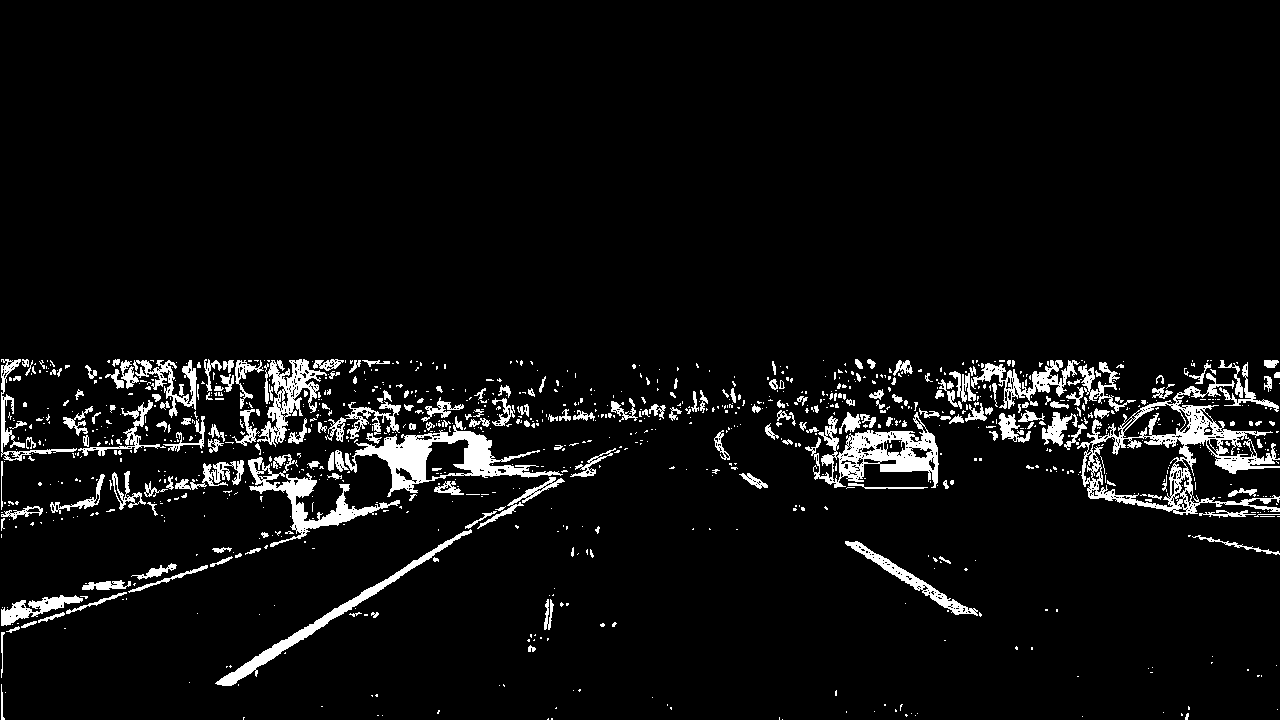
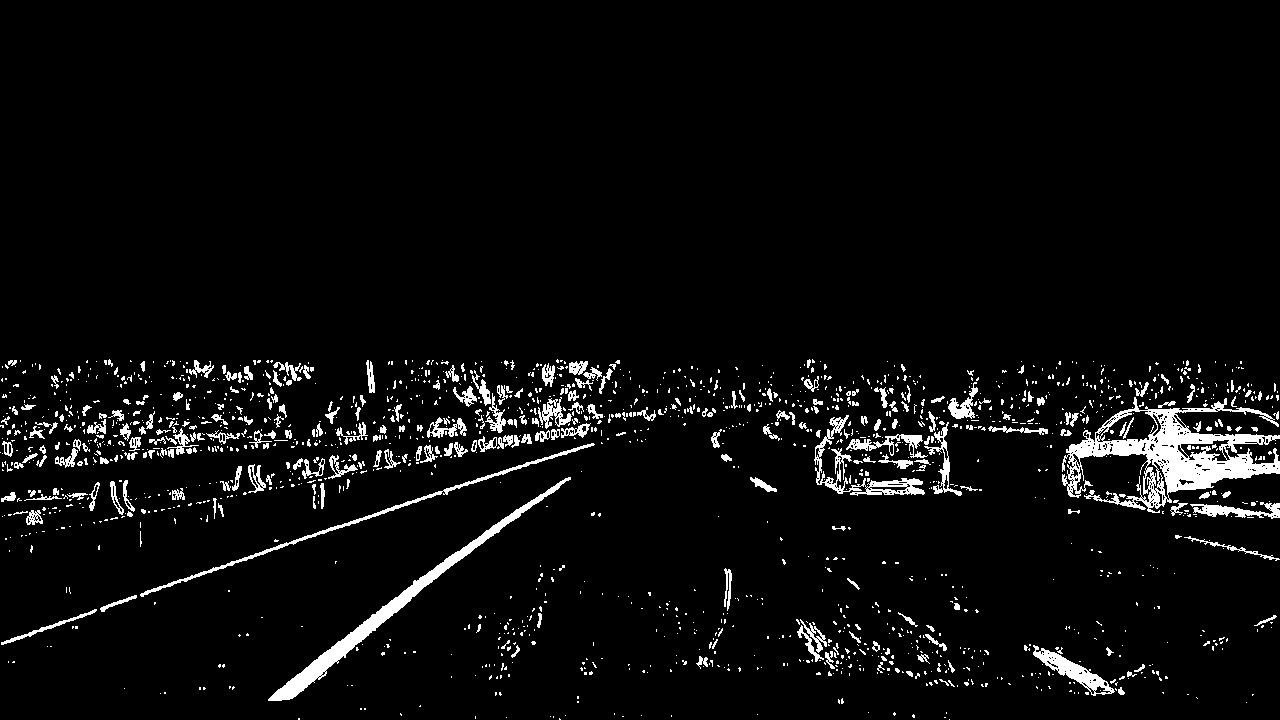
Changes to describe applying distortion correction before lane detection pipeline.

diff --git a/lane_detector.py b/lane_detector.py
@@ -49,10 +49,22 @@ def pipeline(img, s_thresh=(170, 255), sx_thresh=(20, 100), sobel_ksize=5):
     binary[(sxbinary==1) | (s_binary==1)] = 1
     return binary
 
+
+
 # Read in an test image
 image = mpimg.imread('test_images/test1.jpg')
-# Process
+
+# Undistort
+f = open('camera_cal/wide_dist_pickle.p', 'rb')
+param = pickle.load(f)
+K = param["mtx"]        # Camera intrinsic matrix
+d = param["dist"]       # Distortion parameters
+image = cv2.undistort(image, K, d, None, K)
+mpimg.imsave("test_images/test1_undistorted.png", image)
+
+# Process lane detection filters
 result = pipeline(image)
+
 # Write binary image out
-mpimg.imsave("test_images/test1_binary.png", results[0], cmap='gray')
+mpimg.imsave("test_images/test1_binary.png", result, cmap='gray')
 

diff --git a/README.md b/README.md
@@ -17,7 +17,8 @@ As part of Udacity Autonomous Driving Nano-Degree, the goals / steps of this pro
 
 [image0]: ./camera_cal/calibration1.jpg "Distorted"
 [image1]: ./camera_cal/test_undist.jpg "Undistorted"
-[image2]: ./test_images/test1.jpg "Road Transformed"
+[image2]: ./test_images/test1.jpg "Road Original"
+[image2a]: ./test_images/test1_undistorted.png "Road Transformed"
 [image3]: ./test_images/test1_binary.png "Binary Example"
 [image4]: ./examples/warped_straight_lines.jpg "Warp Example"
 [image5]: ./examples/color_fit_lines.jpg "Fit Visual"
@@ -87,8 +88,21 @@ Axises are lines connecting above points. Please be noticed the Z axis is negati
 ###Pipeline (single images)
 
 ####1. Provide an example of a distortion-corrected image.
-To demonstrate this step, I will describe how I apply the distortion correction to one of the test images like this one:
-![alt text][image2]
+Loading previously saved parameters in pickle file when I did camera calibration using checkerboard, I used OpenCV API undistort to do image distortion-correction before any further processing as below. 
+
+```python
+# Undistort
+f = open('camera_cal/wide_dist_pickle.p', 'rb')
+param = pickle.load(f)
+K = param["mtx"]        # Camera intrinsic matrix
+d = param["dist"]       # Distortion parameters
+image = cv2.undistort(image, K, d, None, K)
+mpimg.imsave("test_images/test1_undistorted.png", image)
+```
+
+The distortion-corrected image example:
+![alt text][image2a]
+
 ####2. Describe how (and identify where in your code) you used color transforms, gradients or other methods to create a thresholded binary image.  Provide an example of a binary image result.
 I used a combination of AOI (area of interest), color and gradient thresholds to generate a binary image.  Here's an example of my output for this step.  (note: this is not actually from one of the test images)
 
